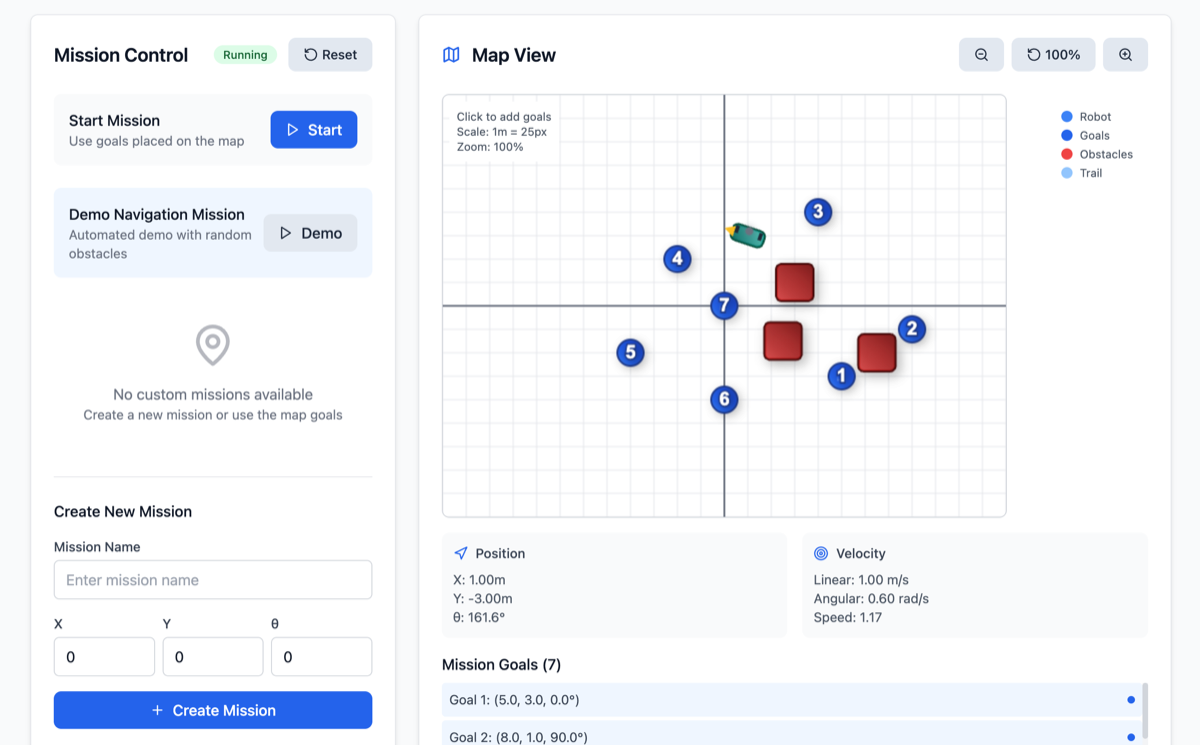
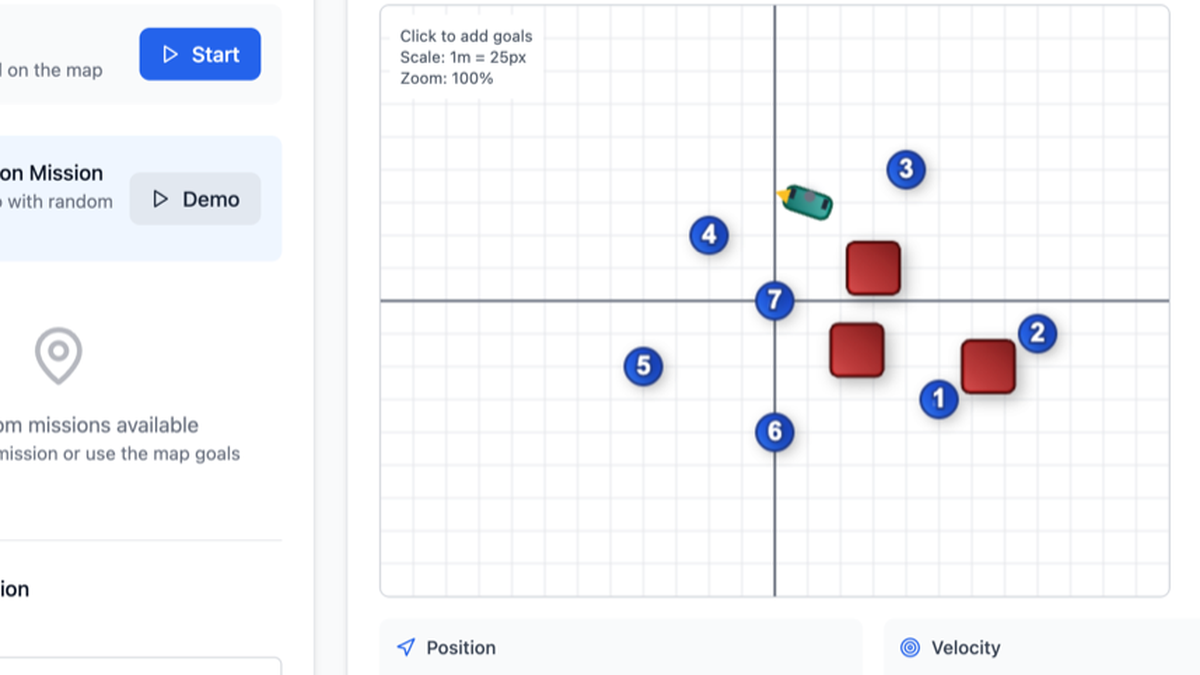
Plain-language copy, thumb fixes, and grid reorder
Simplify project and highlight descriptions; move technical terms to
tags only. Remove hero link/clearance line. ApolloDQN uses lunar lander
gif; CAN-RTOS panel screenshot; reframe wattboard and AMR thumbs.
Reorder grid: ApolloDQN and morpho-plate up; pendulum, lidar, and
MuscleMate on row three. Rename cpp-telemetry card to Sensor Stream Merger.

diff --git a/src/app/data/projects.js b/src/app/data/projects.js
@@ -1,10 +1,10 @@
-// Thumbnails: images or short mp4 loops in /public/projects/
+// Thumbnails: images, gifs, or short mp4 loops in /public/projects/
 
 export const projects = [
   {
     slug: "pcb-solder-robot",
     title: "Autonomous PCB Soldering Robot",
-    blurb: "CoreXY robot that solders THT joints end-to-end; Raspberry Pi vision + MobileNetV2 QA/QC.",
+    blurb: "A robot that solders circuit boards on its own and uses a camera to check every joint.",
     href: "https://github.com/chaffybird56/PCBSolderRobot",
     thumb: "/projects/pcb-soldering-robot.mp4",
     tags: ["Embedded", "Robotics", "Computer Vision", "ML/AI", "PCB", "Mechanics/CAD"],
@@ -12,7 +12,7 @@ export const projects = [
   {
     slug: "clink",
     title: "Clink",
-    blurb: "Acoustic health drift detection — record a baseline, score HEALTHY/WATCH/FAULT on-device with Core ML.",
+    blurb: "Listens to how a machine sounds and flags when it drifts away from a healthy baseline.",
     href: "https://github.com/chaffybird56/clink",
     thumb: "/projects/clink.png",
     tags: ["Core ML", "Swift", "Python", "Signal Processing", "macOS"],
@@ -20,7 +20,7 @@ export const projects = [
   {
     slug: "radioforge",
     title: "RadioForge",
-    blurb: "RF test automation for 5G/LTE — signal generator + spectrum analyzer, live dashboard, anomaly reports.",
+    blurb: "Runs radio bench tests automatically and shows pass or fail on a live dashboard.",
     href: "https://github.com/chaffybird56/RadioForge",
     thumb: "/projects/radioforge.png",
     tags: ["RF", "Java", "Test Automation", "Kafka", "Spark"],
@@ -28,7 +28,7 @@ export const projects = [
   {
     slug: "wattboard",
     title: "Wattboard",
-    blurb: "Multi-site traction power monitoring — live dashboards, load balancing, and smart alerts.",
+    blurb: "Tracks power use across sites so you can spot waste before the bill jumps.",
     href: "https://github.com/chaffybird56/Wattboard",
     thumb: "/projects/wattboard.png",
     tags: ["Energy", "Python", "Flask", "Power Systems", "Analytics"],
@@ -36,7 +36,7 @@ export const projects = [
   {
     slug: "missioncontrol-amr",
     title: "MissionControl-AMR",
-    blurb: "Browser-based AMR fleet map — plan missions, monitor robots, and run a show-floor demo.",
+    blurb: "Map, plan routes, and watch a fleet of warehouse robots from a browser.",
     href: "https://github.com/chaffybird56/MissionControl-AMR",
     thumb: "/projects/missioncontrol-amr.png",
     tags: ["Robotics", "Fleet", "Web", "Navigation", "ROS"],
@@ -44,72 +44,63 @@ export const projects = [
   {
     slug: "clearpath-radar",
     title: "ClearPath-Radar",
-    blurb: "Clutter-free radar processing pipeline for moving targets (range/Doppler/MTI).",
+    blurb: "Finds moving targets on radar even when static clutter fills the background.",
     href: "https://github.com/chaffybird56/ClearPath-Radar",
     thumb: "/projects/clearpath-radar.png",
     tags: ["Signal Processing", "Radar", "DSP", "MTI"],
   },
   {
-    slug: "can-rtos-sim",
-    title: "CAN-RTOS Sim",
-    blurb: "Simulated CAN bus + RTOS nodes with fault injection, watchdog recovery, and a live HIL panel.",
-    href: "https://github.com/chaffybird56/CAN-RTOS-Sim",
-    thumb: null,
-    tags: ["CAN", "Embedded", "C++", "Automotive", "Fault Injection"],
-  },
-  {
-    slug: "cpp-telemetry-fuser",
-    title: "C++ Telemetry Fuser",
-    blurb: "Production C++17 service fusing multi-sensor streams with Prometheus metrics and health checks.",
-    href: "https://github.com/chaffybird56/cpp-telemetry-fuser",
-    thumb: "/projects/cpp-telemetry-fuser.png",
-    tags: ["C++", "Telemetry", "Prometheus", "Microservice", "Testing"],
-  },
-  {
     slug: "apollo-dqn",
     title: "ApolloDQN",
-    blurb: "From-scratch DQN—spaceship learns to land (PyTorch).",
+    blurb: "A lunar lander teaches itself to touch down safely through repeated practice runs.",
     href: "https://github.com/chaffybird56/ApolloDQN",
-    thumb: "/projects/apollo-dqn.jpg",
-    tags: ["Reinforcement Learning", "PyTorch", "Python", "Deep Networks", "Agent Training"],
-  },
-  {
-    slug: "foresight",
-    title: "Foresight",
-    blurb:
-      "Trends KPI's, spots anomalies, and estimates reliability from sensor and event data. Asset health monitoring for any uptime-critical operation.",
-    href: "https://github.com/chaffybird56/Foresight",
-    thumb: "/projects/foresight.png",
-    tags: ["Python", "Flask", "Sensor Monitoring", "Anomaly Detection", "Reliability", "Statistical Forecasting"],
+    thumb: "/projects/apollo-dqn.gif",
+    tags: ["Reinforcement Learning", "PyTorch", "Python", "Gymnasium", "Deep Networks"],
   },
   {
     slug: "morpho-plate",
     title: "morpho-plate",
-    blurb: "Lightweight ALPR/ANPR pipeline for roadway footage (real-time inclined).",
+    blurb: "Reads license plates from road video and flags watch-list matches in real time.",
     href: "https://github.com/chaffybird56/morpho-plate",
     thumb: "/projects/morpho-plate.jpg",
     tags: ["Computer Vision", "OCR", "Python", "Image Processing"],
   },
   {
-    slug: "angle-based-motion-tracking",
-    title: "Angle-Based-Motion-Tracking",
-    blurb: "Motion estimation from angle-of-arrival using nonlinear methods.",
-    href: "https://github.com/chaffybird56/Angle-Based-Motion-Tracking",
-    thumb: "/projects/angle-based-motion-tracking.jpg",
-    tags: ["Tracking", "AOA", "Motion Estimation", "MATLAB"],
-  },
-  {
     slug: "upright-pendulum",
     title: "Upright-Pendulum",
-    blurb: "Stabilizes an inverted pendulum via state-feedback and a full-state observer.",
+    blurb: "Keeps an upside-down pendulum balanced automatically — like balancing a broomstick.",
     href: "https://github.com/chaffybird56/Upright-Pendulum",
     thumb: "/projects/inverted-pendulum.jpg",
     tags: ["Control Systems", "Observer", "Simulink", "State-Feedback", "Stabilization"],
   },
   {
+    slug: "rotational-3d-lidar",
+    title: "Rotational-3D-LiDAR",
+    blurb: "Spins a distance sensor to build a 3D map of the space around it.",
+    href: "https://github.com/chaffybird56/Rotational-3D-LiDAR",
+    thumb: "/projects/rotational-3d-lidar.jpg",
+    tags: ["Embedded", "C", "MSP432", "LiDAR", "Point Cloud"],
+  },
+  {
+    slug: "musclemate",
+    title: "MuscleMate",
+    blurb: "Controls a robot arm using muscle signals picked up from the skin.",
+    href: "https://github.com/chaffybird56/MuscleMate",
+    thumb: "/projects/musclemate.jpg",
+    tags: ["Robotics", "EMG", "Signal Processing", "Python"],
+  },
+  {
+    slug: "foresight",
+    title: "Foresight",
+    blurb: "Watches sensor readings over time and warns when something starts to look off.",
+    href: "https://github.com/chaffybird56/Foresight",
+    thumb: "/projects/foresight.png",
+    tags: ["Python", "Flask", "Sensor Monitoring", "Anomaly Detection", "Reliability", "Statistical Forecasting"],
+  },
+  {
     slug: "mapping-localization-av",
     title: "MappingLocalization-AV",
-    blurb: "2-D occupancy grid mapper for an autonomous vehicle using LiDAR scans and wheel/IMU odometry.",
+    blurb: "A small vehicle builds a floor plan map as it drives using laser and wheel data.",
     href: "https://github.com/chaffybird56/MappingLocalization-AV",
     thumb: "/projects/2d-grid.jpg",
     tags: ["SLAM", "LiDAR", "ROS", "Autonomous Vehicles", "Jetson"],
@@ -117,39 +108,47 @@ export const projects = [
   {
     slug: "home-energy-monitor",
     title: "Home-EnergyMonitor",
-    blurb: "Real-time home energy data tracker with MQTT → Flask API → dashboards.",
+    blurb: "Shows home electricity use live on a simple web dashboard.",
     href: "https://github.com/chaffybird56/Home-EnergyMonitor",
     thumb: "/projects/home-energy-monitor.jpg",
     tags: ["IoT", "Python", "MQTT", "Flask", "Energy"],
   },
   {
-    slug: "musclemate",
-    title: "MuscleMate",
-    blurb: "Muscle-powered robotic arm concept for surgical sterilization; EMG + signal processing.",
-    href: "https://github.com/chaffybird56/MuscleMate",
-    thumb: "/projects/musclemate.jpg",
-    tags: ["Robotics", "EMG", "Signal Processing", "Python"],
-  },
-  {
     slug: "f-domain-sensing",
     title: "F-Domain-Sensing",
-    blurb: "DFT exploration + FMCW radar FFT on TI TMS320.",
+    blurb: "Turns raw radar samples into a clear frequency-domain picture on an embedded chip.",
     href: "https://github.com/chaffybird56/F-Domain-Sensing",
     thumb: "/projects/dsp-fmcw.jpg",
     tags: ["DSP", "DFT/FFT", "FMCW Radar", "TMS320", "MATLAB"],
   },
   {
-    slug: "rotational-3d-lidar",
-    title: "Rotational-3D-LiDAR",
-    blurb: "Microcontroller-driven LiDAR rig generating 3D point clouds.",
-    href: "https://github.com/chaffybird56/Rotational-3D-LiDAR",
-    thumb: "/projects/rotational-3d-lidar.jpg",
-    tags: ["Embedded", "C", "MSP432", "LiDAR", "Point Cloud"],
+    slug: "angle-based-motion-tracking",
+    title: "Angle-Based-Motion-Tracking",
+    blurb: "Tracks how something moves using the angle a wireless signal arrives from.",
+    href: "https://github.com/chaffybird56/Angle-Based-Motion-Tracking",
+    thumb: "/projects/angle-based-motion-tracking.jpg",
+    tags: ["Tracking", "AOA", "Motion Estimation", "MATLAB"],
+  },
+  {
+    slug: "can-rtos-sim",
+    title: "CAN-RTOS Sim",
+    blurb: "Simulates in-car network traffic, injects faults, and watches nodes recover live.",
+    href: "https://github.com/chaffybird56/CAN-RTOS-Sim",
+    thumb: "/projects/can-rtos-sim.png",
+    tags: ["CAN", "Embedded", "C++", "Automotive", "Fault Injection", "WebSocket"],
+  },
+  {
+    slug: "cpp-telemetry-fuser",
+    title: "Sensor Stream Merger",
+    blurb: "Pulls readings from multiple sensors into one clean timeline with health checks built in.",
+    href: "https://github.com/chaffybird56/cpp-telemetry-fuser",
+    thumb: "/projects/cpp-telemetry-fuser.png",
+    tags: ["C++17", "Telemetry", "Prometheus", "Microservice", "Sensor Fusion", "Testing"],
   },
   {
     slug: "optimal-clusters",
     title: "optimal-clusters",
-    blurb: "Adaptive Color Quantization via optimal clustering for image compression.",
+    blurb: "Shrinks image file size by grouping similar colors intelligently.",
     href: "https://github.com/chaffybird56/optimal-clusters",
     thumb: "/projects/optimal-clusters.jpg",
     tags: ["Python", "Clustering", "Image Compression"],
@@ -157,7 +156,7 @@ export const projects = [
   {
     slug: "pixelweave",
     title: "PixelWeave",
-    blurb: "Reconstructs full-color images from a sensor mosaic (MATLAB).",
+    blurb: "Rebuilds a full-color photo from the raw red-green-blue pattern a camera sensor records.",
     href: "https://github.com/chaffybird56/PixelWeave",
     thumb: "/projects/pixelweave.jpg",
     tags: ["MATLAB", "Algorithms", "Bayesian Optimization", "Demosaicing"],

diff --git a/src/app/data/highlights.js b/src/app/data/highlights.js
@@ -1,4 +1,4 @@
-// Highlighted builds grouped for employer-facing scan (hardware / control / RF / AI).
+// Highlighted builds — plain-language notes; technical detail lives in project tags.
 
 export const highlightCategories = [
   {
@@ -8,18 +8,18 @@ export const highlightCategories = [
     items: [
       {
         href: "https://github.com/chaffybird56/PCBSolderRobot",
-        title: "Capstone — Autonomous PCB Soldering Robot",
-        note: "🏆 1st @ McMaster Expo · CoreXY + vision QA",
+        title: "capstone — autonomous pcb soldering robot",
+        note: "🏆 1st @ expo · combines mechanics, power, controls, vision & software into one build",
       },
       {
         href: "https://github.com/chaffybird56/Rotational-3D-LiDAR",
-        title: "Rotational 3D LiDAR",
-        note: "MCU + ToF → point clouds",
+        title: "rotational 3d lidar",
+        note: "spins a distance sensor to map a room in 3d",
       },
       {
         href: "https://github.com/chaffybird56/MuscleMate",
-        title: "MuscleMate",
-        note: "EMG-driven arm for sterilization workflow",
+        title: "musclemate",
+        note: "robot arm you steer with arm-muscle signals",
       },
     ],
   },
@@ -30,23 +30,23 @@ export const highlightCategories = [
     items: [
       {
         href: "https://github.com/chaffybird56/Wattboard",
-        title: "Wattboard",
-        note: "Traction power & load analytics dashboard",
+        title: "wattboard",
+        note: "see where power is going before the bill spikes",
       },
       {
         href: "https://github.com/chaffybird56/MissionControl-AMR",
-        title: "MissionControl-AMR",
-        note: "Browser fleet map, plan & monitor AMRs",
+        title: "missioncontrol-amr",
+        note: "map and dispatch a fleet of warehouse robots from a browser",
       },
       {
         href: "https://github.com/chaffybird56/Upright-Pendulum",
-        title: "Upright Pendulum",
-        note: "Observer + state-feedback stabilization",
+        title: "upright pendulum",
+        note: "keeps an upside-down pendulum balanced, like balancing a broomstick",
       },
       {
         href: "https://github.com/chaffybird56/Home-EnergyMonitor",
-        title: "Home-EnergyMonitor",
-        note: "MQTT → Flask live energy tracking",
+        title: "home-energymonitor",
+        note: "live home power readout on a simple dashboard",
       },
     ],
   },
@@ -57,23 +57,23 @@ export const highlightCategories = [
     items: [
       {
         href: "https://github.com/chaffybird56/ClearPath-Radar",
-        title: "ClearPath-Radar",
-        note: "Clutter-free range/Doppler MTI pipeline",
+        title: "clearpath-radar",
+        note: "picks out moving targets through static clutter on radar",
       },
       {
         href: "https://github.com/chaffybird56/CAN-RTOS-Sim",
-        title: "CAN-RTOS Sim",
-        note: "Timing & fault injection on a busy CAN bus",
+        title: "can-rtos sim",
+        note: "stress-tests car-style network messages and watches nodes recover",
       },
       {
         href: "https://github.com/chaffybird56/RadioForge",
-        title: "RadioForge",
-        note: "5G/LTE RF bench automation + live dashboard",
+        title: "radioforge",
+        note: "runs radio tests and shows pass/fail on a live bench dashboard",
       },
       {
         href: "https://github.com/chaffybird56/F-Domain-Sensing",
-        title: "F-Domain-Sensing",
-        note: "FMCW radar FFT on TI TMS320",
+        title: "f-domain-sensing",
+        note: "turns raw radar samples into a clean frequency picture",
       },
     ],
   },
@@ -84,23 +84,23 @@ export const highlightCategories = [
     items: [
       {
         href: "https://github.com/chaffybird56/clink",
-        title: "Clink",
-        note: "Acoustic health drift — Core ML on Mac",
+        title: "clink",
+        note: "listens to a machine and flags when its sound drifts from healthy",
       },
       {
         href: "https://github.com/chaffybird56/ApolloDQN",
-        title: "ApolloDQN",
-        note: "From-scratch DQN lunar lander (PyTorch)",
+        title: "apollodqn",
+        note: "teaches a lander to touch down safely by trial and error",
       },
       {
         href: "https://github.com/chaffybird56/morpho-plate",
-        title: "Morpho-Plate",
-        note: "ALPR pipeline on roadway footage",
+        title: "morpho-plate",
+        note: "reads license plates from road video and flags watch-list hits",
       },
       {
         href: "https://github.com/chaffybird56/Foresight",
-        title: "Foresight",
-        note: "Sensor anomalies + reliability forecasting",
+        title: "foresight",
+        note: "spots when sensor readings start drifting before something breaks",
       },
     ],
   },

diff --git a/src/app/components/HeroIntro.js b/src/app/components/HeroIntro.js
@@ -1,6 +1,5 @@
 "use client";
 import Image from "next/image";
-import Link from "next/link";
 
 export default function HeroIntro() {
   return (
@@ -18,21 +17,6 @@ export default function HeroIntro() {
       <div className="hero-copy">
         <p className="hero-tagline text-muted">
           embedded &amp; hardware validation · power · control &amp; test automation
-        </p>
-        <p className="hero-links text-sm text-muted">
-          <Link
-            href="https://www.linkedin.com/in/ahmad-choudhry-0/"
-            target="_blank"
-            className="u-anim-static"
-          >
-            linkedin
-          </Link>
-          <span className="hero-sep">·</span>
-          <Link href="https://github.com/chaffybird56" target="_blank" className="u-anim-static">
-            github
-          </Link>
-          <span className="hero-sep">·</span>
-          <span>reliability status (level i) security clearance — dnd &amp; cnl</span>
         </p>
       </div>
     </div>

diff --git a/src/app/components/ProjectsGrid.js b/src/app/components/ProjectsGrid.js
@@ -12,6 +12,11 @@ function Thumb({ src, alt, title }) {
     );
   if (src.endsWith(".mp4"))
     return <video className="card-thumb" src={src} autoPlay muted loop playsInline />;
+  if (src.endsWith(".gif"))
+    return (
+      // eslint-disable-next-line @next/next/no-img-element
+      <img src={src} alt={alt} className="card-thumb" loading="lazy" />
+    );
   return <Image src={src} alt={alt} width={1200} height={675} className="card-thumb" />;
 }
 